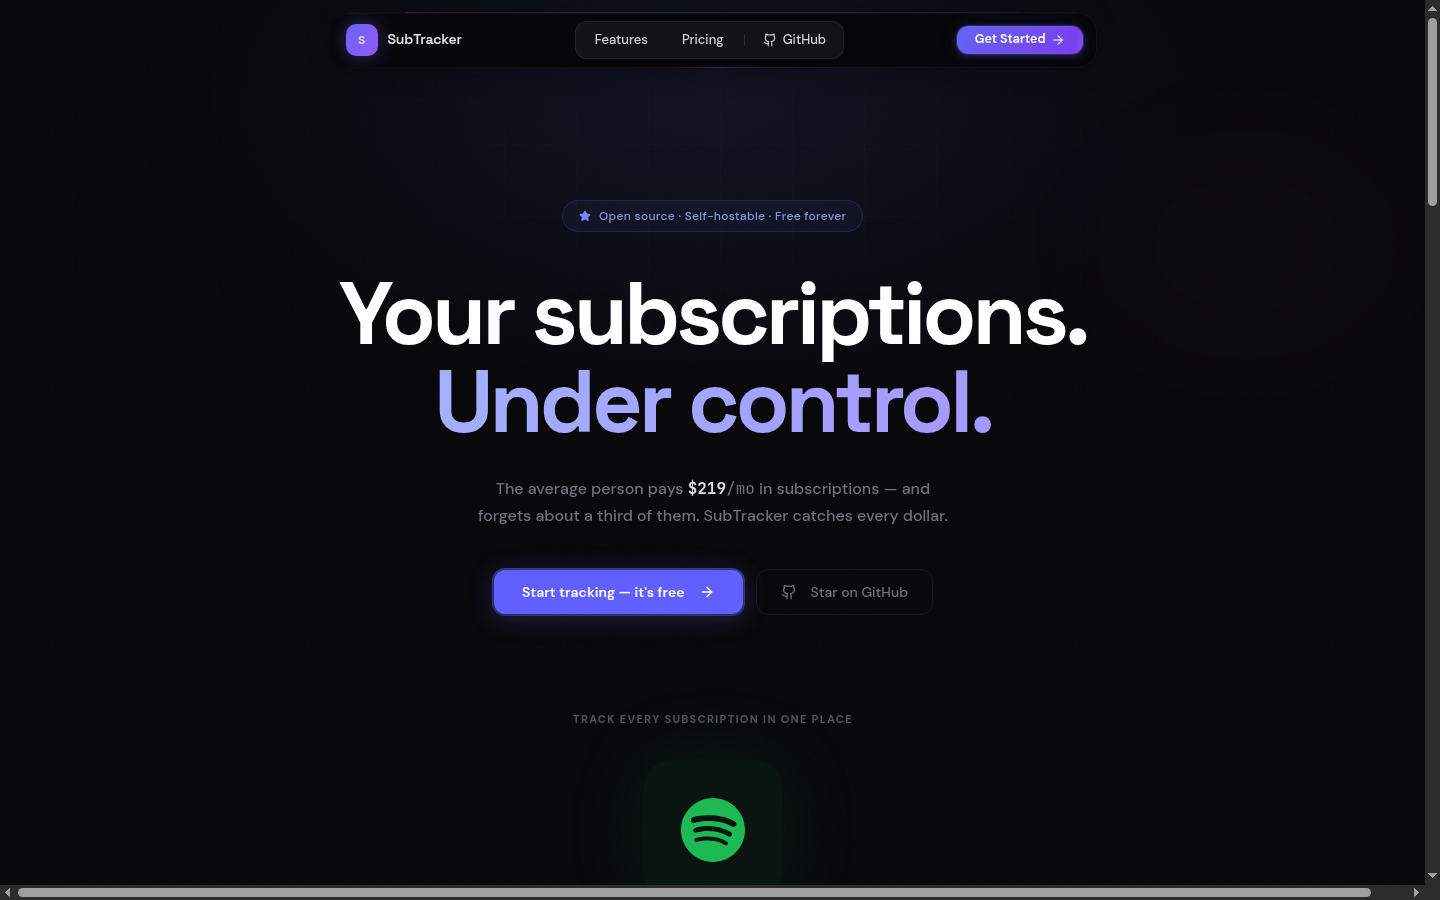
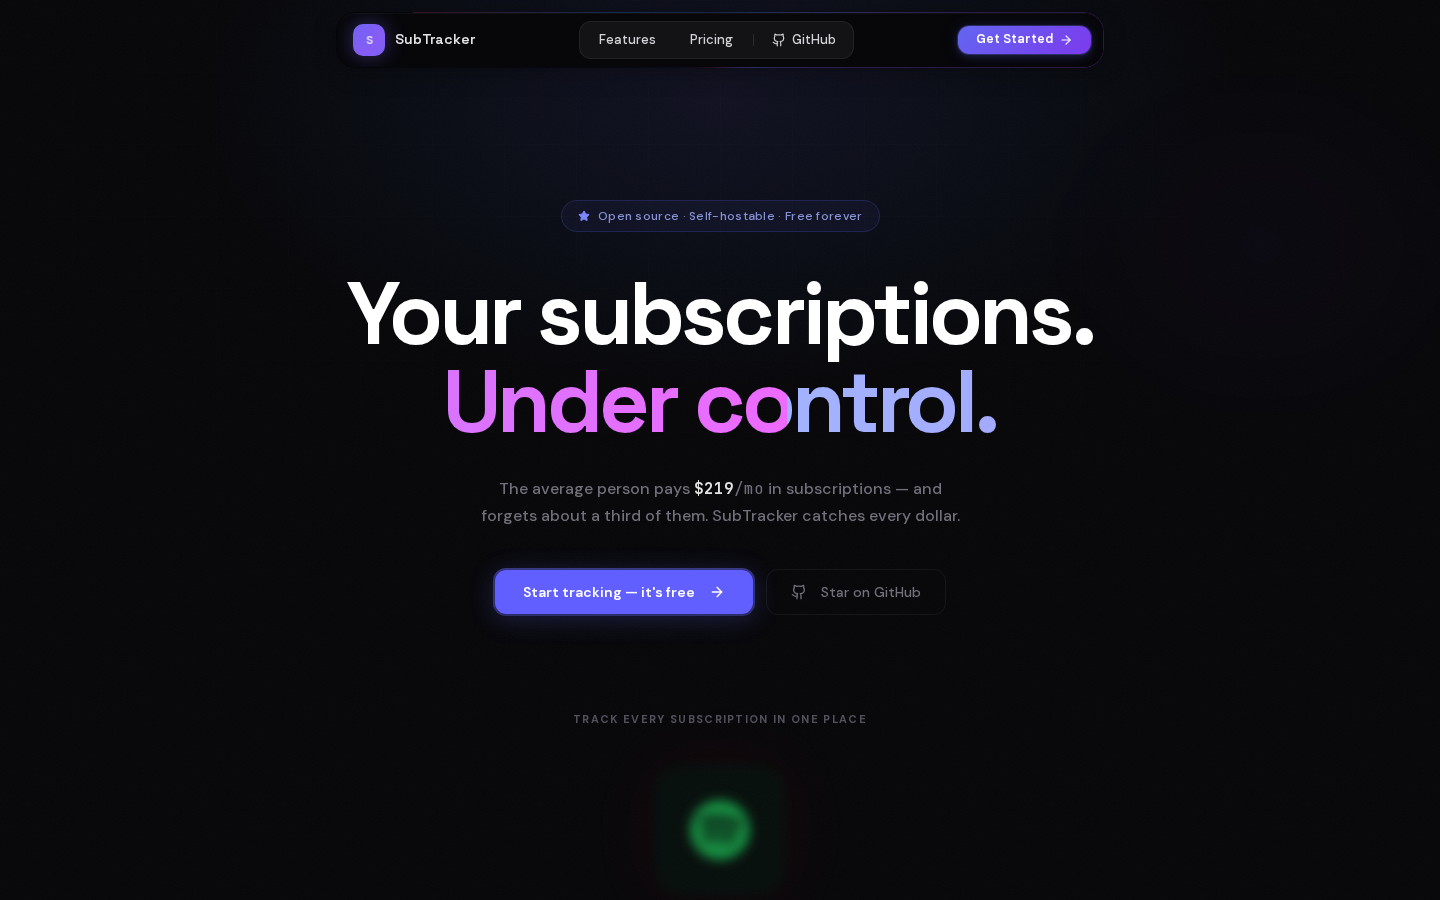
docs: refresh landing screenshot, add login screenshot + Reddit draft
- Refresh docs/screenshot-landing.png against the currently deployed
  Vercel build so the README hero image matches what a visitor sees.
- Add docs/screenshot-login.png showing the OAuth-only sign-in screen
  (Google + GitHub) — useful for later README sections and reassures
  people that there's no credentials form in production.
- Regenerate screenshots with apps/web/e2e/screenshots.spec.ts, a small
  Playwright script that drives public pages only. Run with
  `npx playwright test e2e/screenshots.spec.ts --reporter=list`.
- docs/REDDIT-POST-DRAFT.md is the launch post ready to paste into
  r/selfhosted, including three title options, a checklist, and
  deliberate callouts of what's NOT yet in v0.5.

diff --git a/apps/web/e2e/screenshots.spec.ts b/apps/web/e2e/screenshots.spec.ts
@@ -1,0 +1,38 @@
+// One-off screenshot generator. Not a test — run with:
+//   npx playwright test e2e/screenshots.script.ts --reporter=list
+// It drives public pages only, so no OAuth session is required.
+
+import { test, expect } from "@playwright/test";
+import path from "path";
+
+const OUT = path.resolve(__dirname, "../../../docs");
+
+test.describe("Marketing screenshots", () => {
+  test("landing hero", async ({ page }) => {
+    await page.setViewportSize({ width: 1440, height: 900 });
+    await page.goto("/");
+    // Let fonts + animations settle
+    await page.waitForLoadState("networkidle").catch(() => undefined);
+    await page.waitForTimeout(1200);
+    await page.screenshot({
+      path: path.join(OUT, "screenshot-landing.png"),
+      fullPage: false,
+    });
+    expect(true).toBe(true);
+  });
+
+  test("import page tabs (bank CSV + JSON/Wallos)", async ({ page }) => {
+    await page.setViewportSize({ width: 1200, height: 800 });
+    // We're not authenticated, so /import redirects to /login.
+    // Instead, visit /login and show the clean OAuth screen — it's the
+    // first page real visitors see and makes a clean second screenshot.
+    await page.goto("/login");
+    await page.waitForLoadState("networkidle").catch(() => undefined);
+    await page.waitForTimeout(800);
+    await page.screenshot({
+      path: path.join(OUT, "screenshot-login.png"),
+      fullPage: false,
+    });
+    expect(true).toBe(true);
+  });
+});

diff --git a/docs/REDDIT-POST-DRAFT.md b/docs/REDDIT-POST-DRAFT.md
@@ -1,0 +1,92 @@
+# Reddit launch post — r/selfhosted
+
+## Title options (pick one)
+
+1. `[Release] SubTracker v0.5 — open-source subscription tracker with bank CSV import (Next.js + Postgres + Docker)`
+2. `I built SubTracker — an AGPL subscription tracker that parses your bank statements (and imports Wallos exports)`
+3. `SubTracker v0.5 — self-hostable subscription tracker with CSV bank import and Wallos migration path`
+
+**Recommended:** #2 — the hook ("parses your bank statements") is the differentiator and the Wallos bit signals we know the landscape.
+
+---
+
+## Post body
+
+Hey r/selfhosted 👋
+
+I've been tracking my subscriptions in a spreadsheet for years and finally got fed up with it, so I built **SubTracker** — an open-source, self-hostable subscription tracker.
+
+**Live demo:** https://subtracker-web-six.vercel.app
+**Repo:** https://github.com/Buggy1111/subtracker
+**License:** AGPL-3.0
+
+### What makes it different
+
+Most subscription trackers want you to add everything by hand. SubTracker reads your **bank statement CSV** (Fio, Revolut, Wise, generic), detects recurring payments statistically, and suggests a list. You accept the ones you want and skip the rest. ~30 seconds instead of 20 minutes of data entry.
+
+### Feature highlights (v0.5 — what works today)
+
+- **Bank CSV import** with auto-detection (Fio Banka, Revolut, Wise, generic)
+- **Wallos migration** — drop your Wallos JSON export and it imports directly, including numeric cycle codes and multi-currency
+- **JSON export/import** — your data, portable between instances
+- **Monthly trend chart** + category breakdown + billing cycle distribution
+- **Monthly budget** with under/near/over states (colour-coded progress bar)
+- **Auto-categorization** — 150+ services (Netflix → Streaming, Cursor → Productivity, Strava → Fitness, etc.) matched by regex, no AI, no cloud calls
+- **Cancellation tracker** — per-subscription cancel URL + 1-5 difficulty rating. Click "Cancel →" on any card, it opens the exact page to cancel.
+- **10 currencies** (USD/EUR/GBP/CZK/PLN/CHF/AUD/CAD/JPY/SEK)
+- **PWA installable** (service worker, app shell, offline landing)
+- **Share URL prefill** — `/subscriptions/new?name=Spotify&amount=9.99&currency=EUR` pre-fills the form
+- **Google + GitHub OAuth**, CSP + HSTS + rate limit, no telemetry
+
+### Stack
+
+Next.js 16 + React 19 + TypeScript strict · Tailwind v4 · Postgres via Drizzle · Auth.js v5 · Turborepo monorepo.
+
+Works on **Vercel + Neon** or **Docker Compose with Postgres** — both paths documented.
+
+### Tests
+
+159 unit tests (Vitest) + 20 E2E (Playwright) running in CI.
+
+### Not yet in v0.5 (I'm being honest)
+
+- Email renewal reminders (Resend integration planned)
+- Browser push notifications
+- 2FA / TOTP
+- i18n (English only right now)
+- Mobile bottom nav polish
+
+Roadmap is in the README.
+
+### Why another one?
+
+Wallos exists and is great (7.7k stars, well-earned). I tried it and bounced off the PHP stack when I wanted to hack on it. SubTracker is aimed at folks who prefer the TypeScript side of the fence, want the CSV import flow, or are migrating from Wallos and want the same feature set in a different runtime. Direct import support is built in.
+
+### Try it without installing anything
+
+The live demo on Vercel connects to a free Neon Postgres. Log in with Google or GitHub. There are sample files in `docs/` you can drop into the import page:
+
+- `docs/demo-import.csv` — 46-row bank statement
+- `docs/demo-wallos-export.json` — Wallos export shape
+- `docs/demo-subtracker-backup.json` — native backup format
+
+### Feedback
+
+This is v0.5 — rough edges exist. If you try it and something's weird, open an issue and I'll fix it fast. Particularly interested in:
+
+- Bank CSVs that don't parse right (drop me the first 3 rows, I'll add a parser)
+- UI papercuts on mobile
+- Features you'd actually use
+
+Built by a factory operator learning to ship software with AI. Feedback and PRs very welcome.
+
+---
+
+## Posting checklist
+
+- [ ] Verify live demo is up (curl /api/health)
+- [ ] Double-check GitHub README renders fine on mobile
+- [ ] Confirm OAuth works from a fresh browser / incognito
+- [ ] Post during US prime time for r/selfhosted (~15:00 UTC weekday, ~19:00 UTC weekend)
+- [ ] Be online for first 2 hours to answer comments
+- [ ] Respond to every comment in the first 24 hours, even the critical ones
